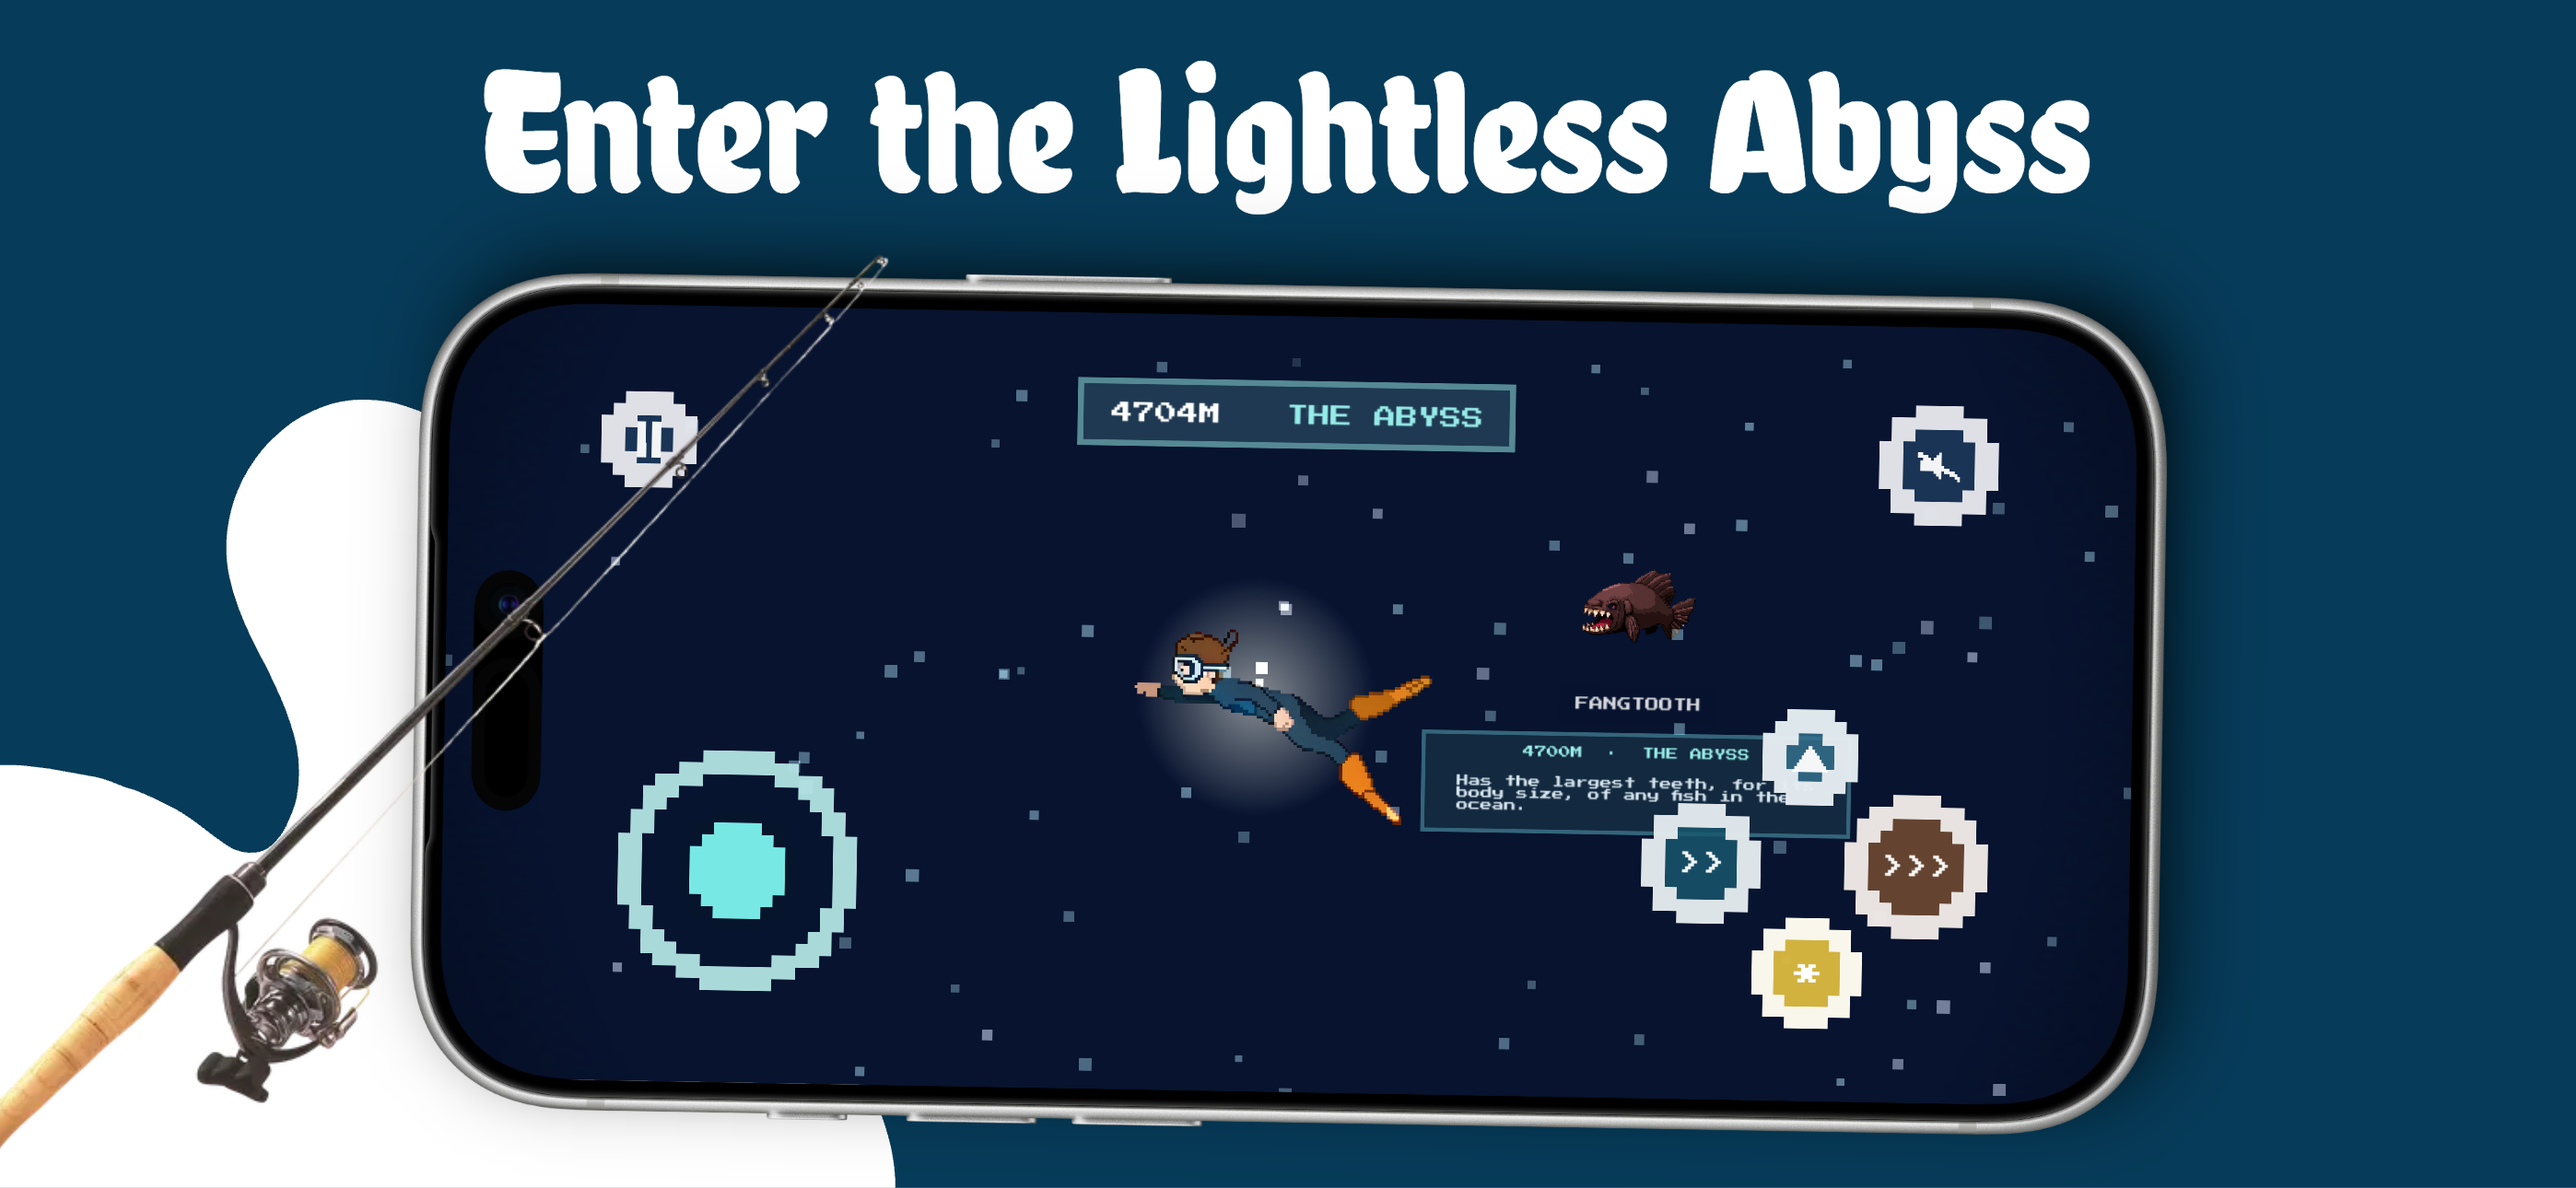
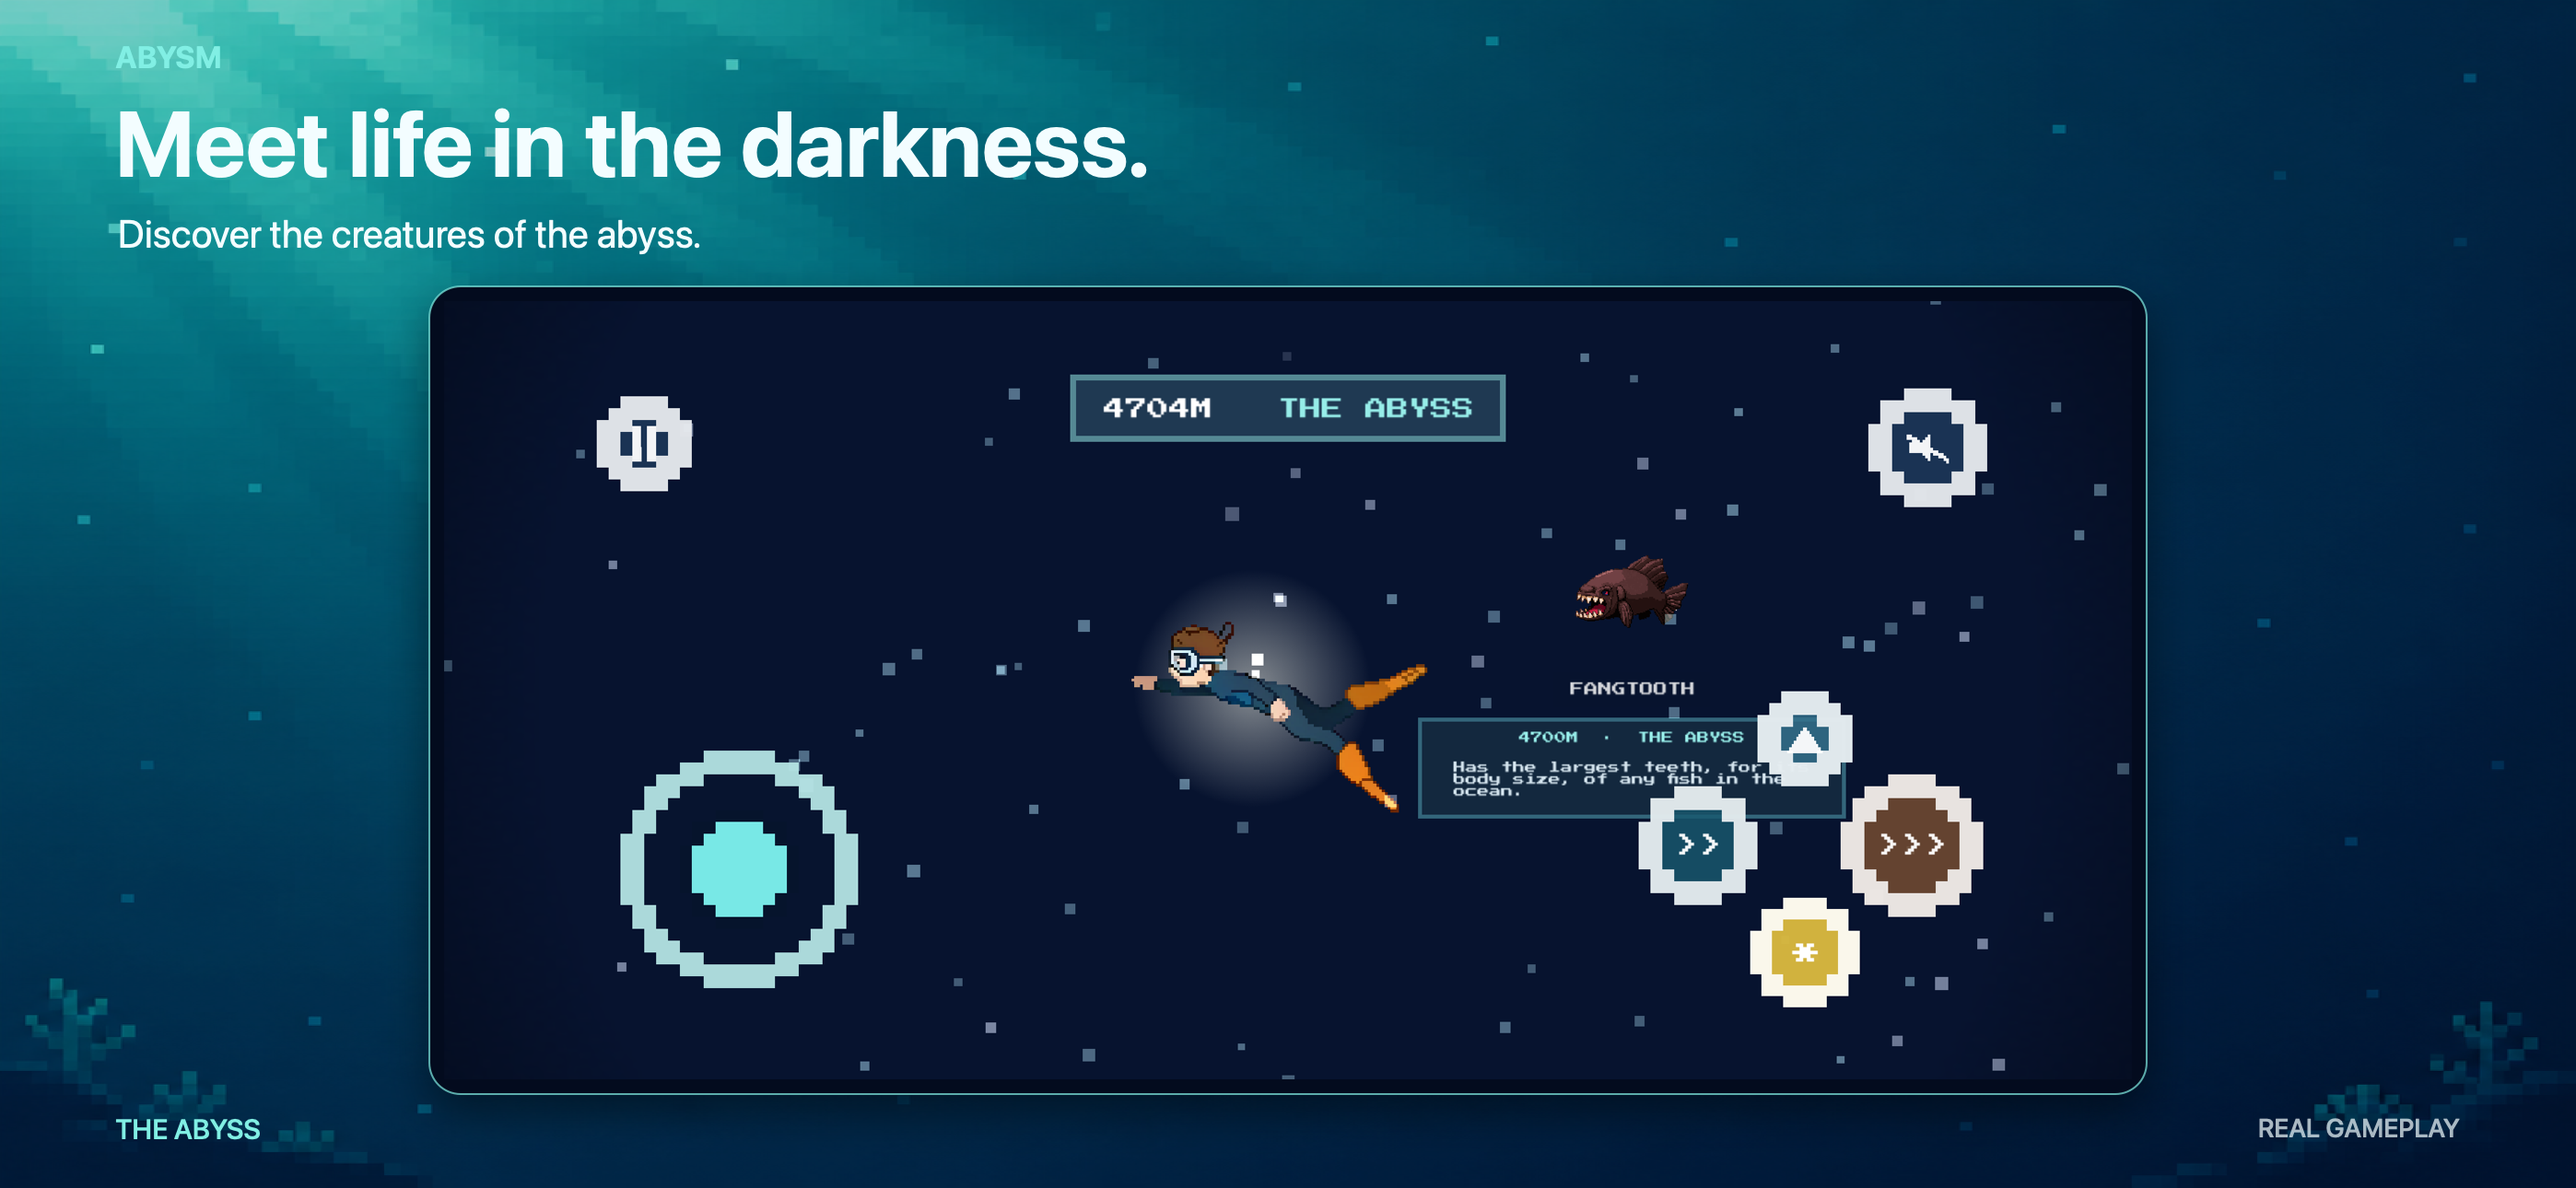
Refresh iPhone and iPad App Store screenshots

diff --git a/store/README.md b/store/README.md
@@ -174,11 +174,10 @@ Right before upload, `asc_release.py` refuses any copy that still stores alpha
 (complete chunks with matching CRCs, image data of the size its header gives, a
 final `IEND`), before anything is sent.
 
-The live 1.1 sets (uploaded by hand as `image1.png` to `image5.png`) hold the
-same pixels as the repository's files, checked on 2026-10-20, but App Store
-Connect compares checksums, not pixels: the first run with
-`IOS_UPLOAD_SCREENSHOTS` on replaces both sets once with the RGB copies, and
-later runs find them matching.
+The repository's iPhone and iPad sets use five RGB marketing frames each,
+composed with authentic ABYSM gameplay captures. App Store Connect compares
+checksums, not pixels: a run with `IOS_UPLOAD_SCREENSHOTS` on replaces sets
+whose files differ from the deployed listing.
 
 The iPhone Duo and Apple Watch sets are optional: ABYSM has none, and without
 PNGs in their folder the live sets in App Store Connect are left alone. Apple
